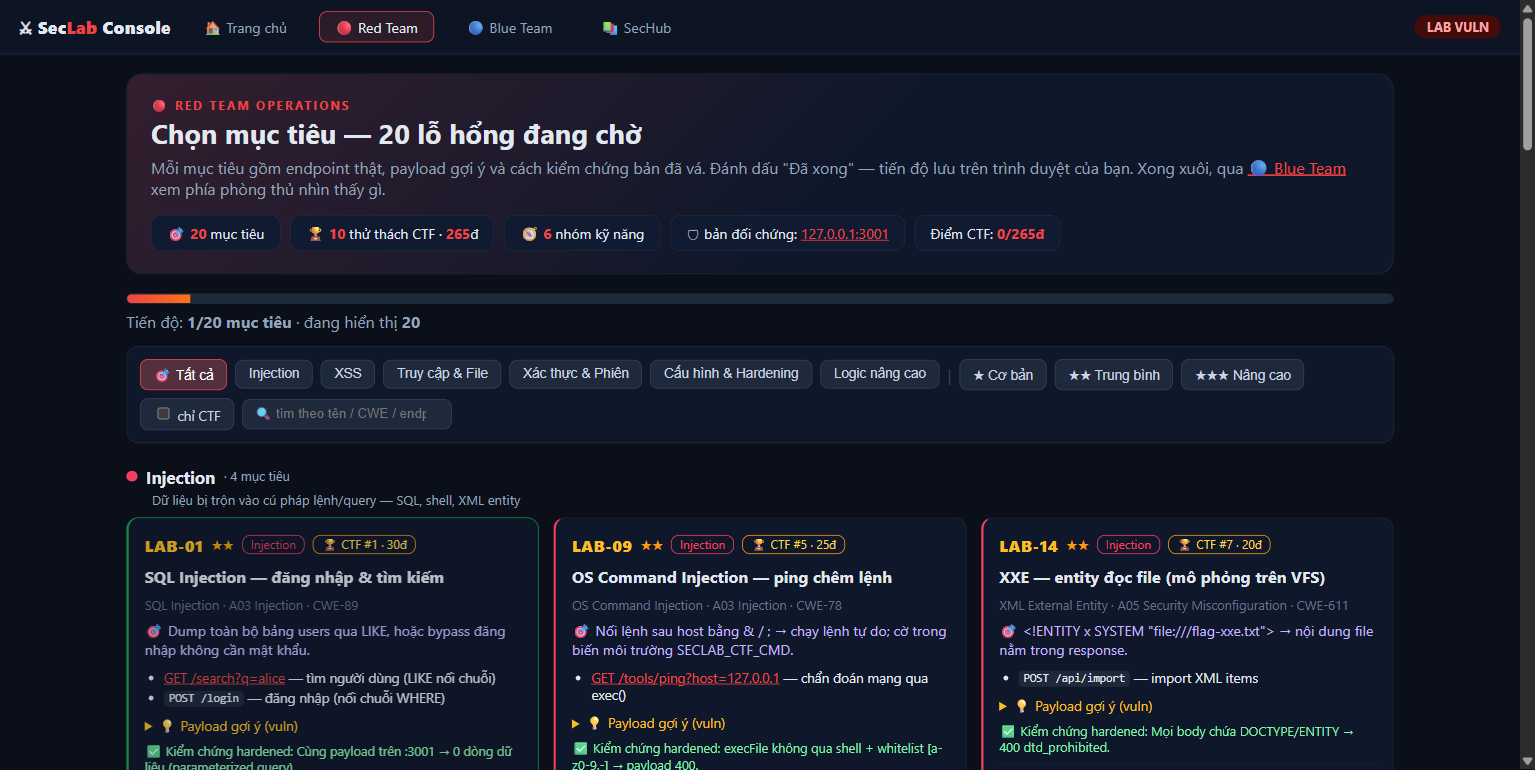
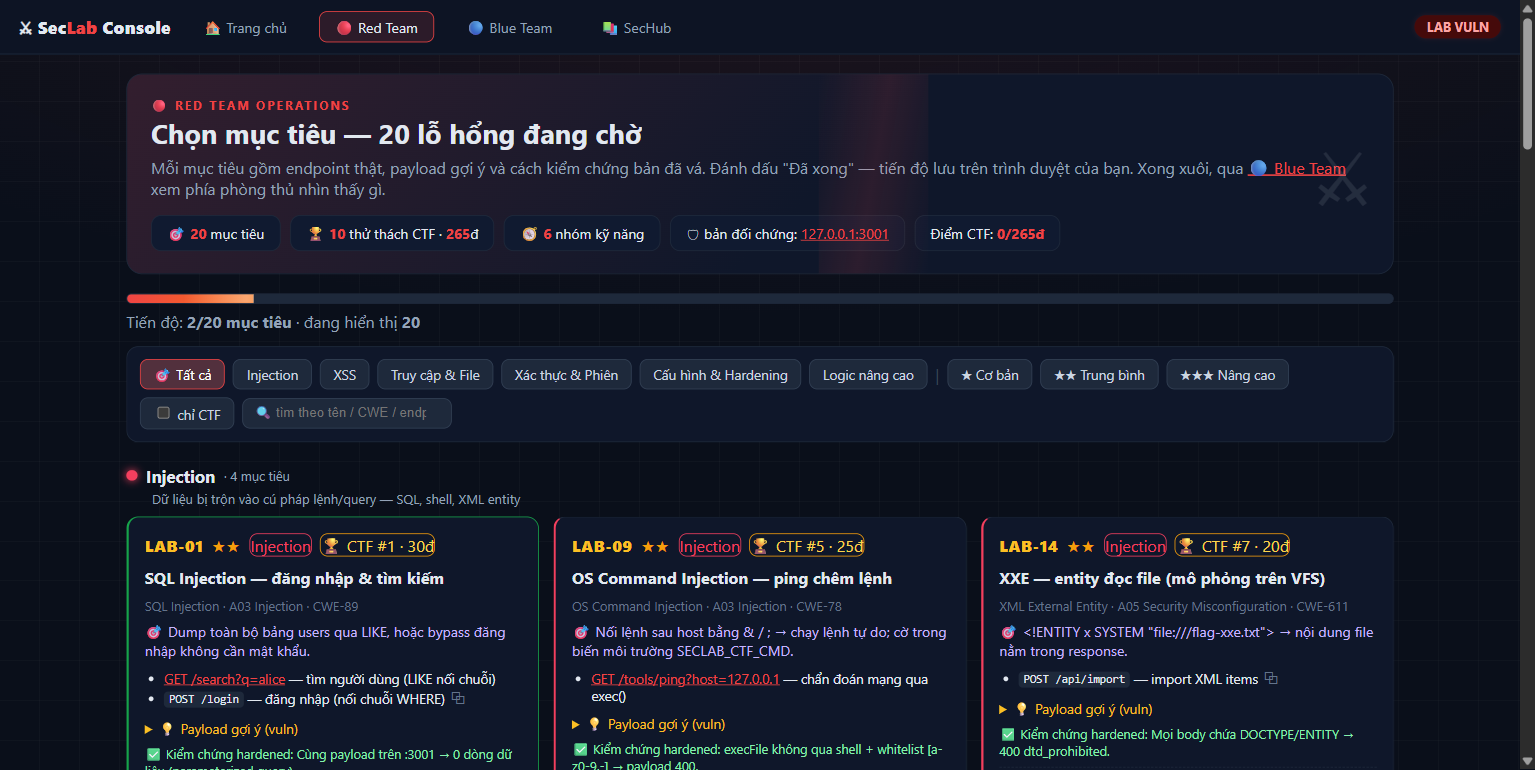
docs: dong bo 149 test + changelog muc polish + anh dashboard moi

diff --git a/CHANGELOG.md b/CHANGELOG.md
@@ -44,13 +44,29 @@ theo [Semantic Versioning](https://semver.org/lang/vi/).
 - Favicon inline cho `/lab` + `/blue` (diệt 404 console).
 - `/lab` redesign sang theme Red Team (đỏ/cam, nhóm theo màu kỹ năng) tách
   biệt với Blue Team (cyan); giữ nguyên lọc, tiến độ, CTF panel.
+- **Filter nhóm không toggle** — bấm lại cùng nút nhóm vẫn giữ filter thay vì
+  về "Tất cả" (setDiff đã toggle đúng, setCat thì chưa) — phát hiện khi click
+  thử bằng browser, giờ `setCat` toggle giống `setDiff`.
+
+### Polish giao diện
+
+- **Micro-animations**: card fade-in + stagger khi filter/hiện lại, progress
+  bar shimmer, nút nhấn scale 0.94, live-dot vòng lan `ring`, badge VULN
+  pulse, alert card fade-in mỗi lần refresh.
+- **Hacker touch**: nền grid mờ 40px kiểu terminal trên cả `/lab`, `/blue`
+  và SecHub; tia scanline quét qua hero 5.5s; glyph watermark ⚔ (Red) / 🛡
+  (Blue) mờ ở góc hero; chấm màu nhóm phát sáng `box-shadow`.
+- **UX nhỏ**: `scroll-behavior:smooth`, `::selection` màu accent,
+  `:focus-visible` viền accent rõ cho keyboard nav, scrollbar custom cho
+  live feed, hover hàng feed, `<details>` đổi màu khi mở.
 
 ### Test
 
 - `tests/dashboard.test.js` +7: route `/blue`, `/_lab/alerts` bắt SQLi +
   admin-probe từ traffic thật, status recording, timestamp helper,
   `flagsOf` encoded-payload (extract+exec thật), MIME asset `/_lab/dash.*`,
-  coverage `LAB_DETECT` → **147 test** (trước 140).
+  coverage `LAB_DETECT`, nút tương tác trên card, toggle filter → **149 test**
+  (trước 140).
 - `tests/e2e.mjs` +3 check nhóm I: `/blue` render + asset JS, `/_lab/alerts`
   phát hiện từ traffic e2e, status trong log → **64 check** (trước 61).
 

diff --git a/exercises/08-e2e-va-kiem-thu-tu-dong.md b/exercises/08-e2e-va-kiem-thu-tu-dong.md
@@ -23,13 +23,13 @@ npm test
 1. Đọc 3 dòng tổng kết ở cuối (dạng TAP, tiền tố `ℹ`):
 
    ```
-   ℹ tests 148
-   ℹ pass 148
+   ℹ tests 149
+   ℹ pass 149
    ℹ fail 0
    ```
 
    Kỳ vọng: **fail 0**. Con số `tests` có thể tăng khi project thêm test mới
-   (tại thời điểm cập nhật tài liệu là 148) — điều bắt buộc là `fail 0`.
+   (tại thời điểm cập nhật tài liệu là 149) — điều bắt buộc là `fail 0`.
 2. Chạy đúng MỘT file để xem runner cô lập thế nào:
 
    ```bash
@@ -103,7 +103,7 @@ và nêu được 1 cặp check B/C đối chứng bằng đúng tên.
    `node src/cli.js recon` thì cần?
 2. Nếu `npm test` báo `fail 5` ngay sau khi bạn `git pull` — bạn kết luận gì
    trước tiên: tool hỏng, lab hỏng, hay có thay đổi code chưa chạy kèm test?
-3. Con số 148 test và 64 check E2E đo hai tầng khác nhau ở điểm nào (đơn vị đo,
+3. Con số 149 test và 64 check E2E đo hai tầng khác nhau ở điểm nào (đơn vị đo,
    thứ cần dựng, thời gian chạy)?
 4. Bạn vừa thêm 1 route mới vào lab hardened. Phải thêm check nhóm nào vào
    `tests/e2e.mjs` để route đó được bảo vệ bởi đối chứng vuln/hardened?

diff --git a/exercises/01-khoi-dong-lab.md b/exercises/01-khoi-dong-lab.md
@@ -17,7 +17,7 @@ Kỳ vọng: Node ≥22 OK, `node:sqlite khả dụng`, port 3000 rảnh, có CI
 npm test
 ```
 
-Kỳ vọng: **148 pass, 0 fail** — bao gồm test chặn mục tiêu public (quan trọng nhất).
+Kỳ vọng: **149 pass, 0 fail** — bao gồm test chặn mục tiêu public (quan trọng nhất).
 
 ## 3. Khởi động lab (bản CỐ Ý DỄ TỔN THƯƠNG)
 
@@ -50,6 +50,6 @@ Kỳ vọng: **TỪ CHỐI** kèm giải thích pháp lý (Điều 287 BLHS 2015
 
 ## ✅ Hoàn thành khi
 
-- [ ] `npm test` xanh 148/148
+- [ ] `npm test` xanh 149/149
 - [ ] Hai lab chạy song song: 3000 (vuln) và 3001 (hardened)
 - [ ] Hiểu vì sao `recon http://8.8.8.8` bị từ chối

diff --git a/docs/07-e2e-checklist.md b/docs/07-e2e-checklist.md
@@ -57,7 +57,7 @@ Ghi chú kỹ thuật: check A7 phải dùng **raw HTTP request** (`node:http`, 
 ## Cách chạy lại
 
 ```bash
-npm test        # 148 unit/integration
+npm test        # 149 unit/integration
 npm run e2e     # 64 E2E HTTP (tự khởi động server, port tạm)
 node src/cli.js hub --port 4000   # rồi mở http://127.0.0.1:4000 xem hub
 node src/cli.js serve --hardened --port 3001  # lab để test tay trên trình duyệt

diff --git a/docs/09-huong-dan-giang-day.md b/docs/09-huong-dan-giang-day.md
@@ -23,7 +23,7 @@ kiến thức bằng số liệu — không chỉ nghe lý thuyết.
 ```bash
 node --version          # cần >= 22.5 (có node:sqlite); thấp hơn vẫn chạy — lab rơi về fallback in-memory
 npm run doctor          # kiểm tra Node, sqlite, port 3000/3001 còn rảnh
-npm test                # 148/148
+npm test                # 149/149
 npm run e2e             # 64/64
 ```
 
